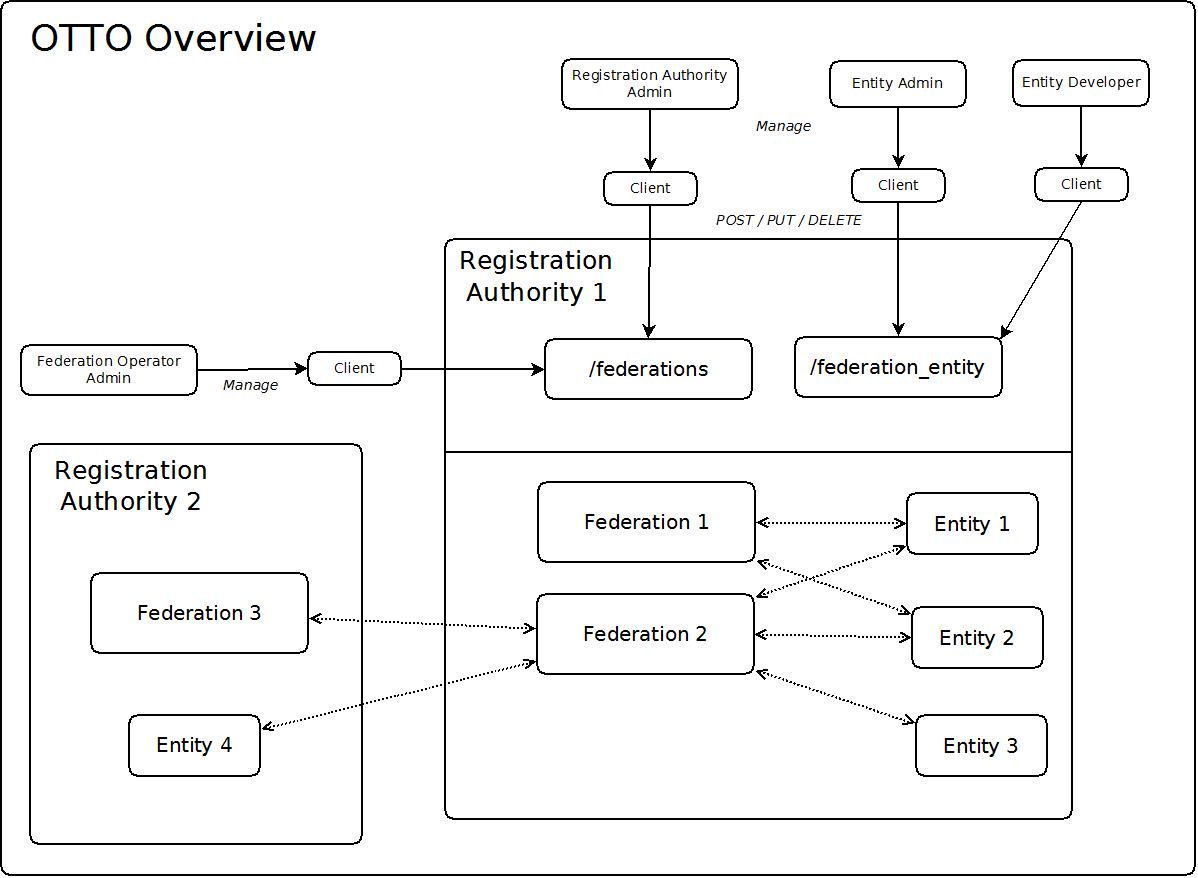
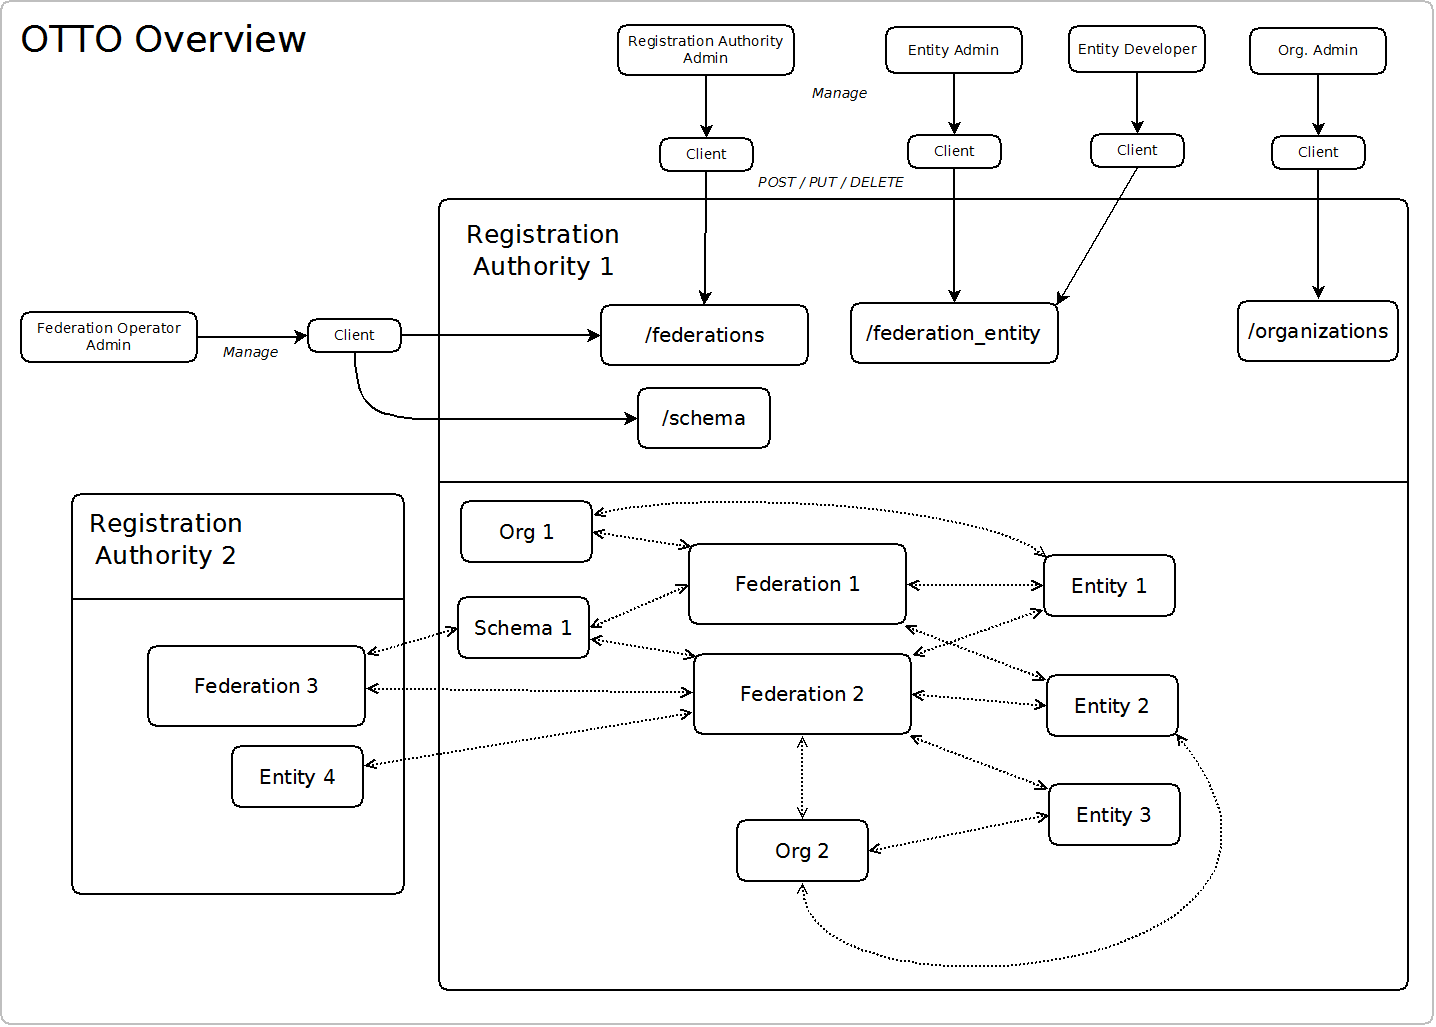
Updated proposal and diagram

diff --git a/docs/proposal/proposal.md b/docs/proposal/proposal.md
@@ -1,36 +1,54 @@
-## Before reading proposal
-* ID - just for convenience of this proposal we are using UUID however it can be any other identifier, e.g. URI, inum, long integer or whatever.
-* Federation Server - for convenience this proposal refers to "http://fs.com", which stands for federation server and must be replaced with concrete server address.
+# Open Trust Taxonomy for Federation Operators
 
-## Discussion roadmap
+## Abstract
 
-* FIXME
+The Open Trust Taxonomy for Federation Operators (OTTO) is a set of API's and a linked data
+schema to enable the formation of multi-party federations--where a central authority
+creates the rules for membership, enabling the participants to more efficiently
+collaborate. The goal of OTTO is to support a range of trust models from very low to
+very high. By providing a framework for extension, in addition to a core set of
+functionality and schema, the OTTO standard provides a scalable technical
+infrastructure to solve organizational challenges in a number of different
+ecosystems.
 
-## Big picture
+![Big picture](https://raw.githubusercontent.com/KantaraInitiative/wg-otto/master/docs/proposal/otto_overview.png "Big picture")
 
-![Big picture](https://raw.githubusercontent.com/KantaraInitiative/wg-otto/0628d4a8400e2d98ea971a26f4c28075f63056d1/docs/proposal/img/ottobigpicture.png "Big picture")
+## Definitions
 
-## Concept
-
+* Registration Authority - Service responsible for hosting federations.
+* Organization - organization description. It may be referenced in any object: Federation, Entity or any 
+other organization related object.
 * Federation - group of entities.
 * Member - reference to entity or another federation.
-* Entity - concrete representation of entity. Entity may have many types at the same time. It means that given implementation may act as OpenID Connect OP and UMA AS at the same time.
+* Entity - concrete representation of entity. Entity may have many types at the same time. For example, an
+entity may act as OpenID Connect OP and UMA AS at the same time.
     * Entity type :
-        * OAuth2 RP - https://fs.com/schema/otto/entity/type/oauth2_rp
-        * OAuth2 OP - https://fs.com/schema/otto/entity/type/oauth2_op
-        * OpenID Connect RP - https://fs.com/schema/otto/entity/type/connect_rp
-        * OpenID Connect OP - https://fs.com/schema/otto/entity/type/connect_rp
-        * UMA AS - https://fs.com/schema/otto/entity/type/uma_as
-        * UMA RS - https://fs.com/schema/otto/entity/type/uma_rs
-        * UMA RP - https://fs.com/schema/otto/entity/type/uma_rp
-* Organization - organization description. It may be present in any entry/object: Federation, Entity or any other organization related entry/object.
+        * OAuth2 RP - https://ra.org/schema/otto/entity/type/oauth2_rp
+        * OAuth2 OP - https://ra.org/schema/otto/entity/type/oauth2_op
+        * OpenID Connect RP - https://ra.org/schema/otto/entity/type/connect_rp
+        * OpenID Connect OP - https://ra.org/schema/otto/entity/type/connect_rp
+        * UMA AS - https://ra.org/schema/otto/entity/type/uma_as
+        * UMA RS - https://ra.org/schema/otto/entity/type/uma_rs
+        * UMA RP - https://ra.org/schema/otto/entity/type/uma_rp
+* Schema - 
+    * Schema type :
+        * User claim schema
+        * Authentication context reference schema
+        * Authentication method reference schema
+        * UMA Scope schema
+        * OpenID Connect Scope schema
+        * Software statement schema
+        * Trust mark schema
 
+## Discovery Endpoint
 
-##  /federations
+`.well-known/otto-configuration` returns endpoints and configuration of registration authority
 
-#### Fetching (GET)
+##  federations endpoint
 
-Endpoint to return federation metadata or otherwise federation IDs that are hosted by given server.
+### Search Federations (GET)
+
+Endpoint to return federation metadata or federation IDs that are hosted by given server.
 
 Request:
 * federation_id - OPTIONAL - id of federation.
@@ -42,28 +60,29 @@ Request:
     * uma_rs
     * uma_rp
     * uma_as
+* filter - OPTIONAL - expression to narrow the result set based on specific criteria
 
 Requests:
-  - /federations - returns federation IDs registered by given server
+  - /federations - returns federation IDs available from this Registration Authority
   - /federations/<federation id> - returns metadata of federation
   - /federations/<federation id>&entity_type=<type> - returns metadata of federation filtered by type.
-
+  - /federations/<federation id>&filter=<filter> - returns filtered metadata
 
 **Federation list Request:**
 
 ```
-GET https://fs.com/federations HTTP/1.1
+GET https://ra.org/federations HTTP/1.1
 ```
 
 
 **Federation list Response:**
 ```json
 {
-  "@context": "https://fs.com/schema/otto/federation_list",
+  "@context": "https://ra.org/schema/otto/federation_list",
   "federations": [
-    "https://fs.com/federations/904ca9da-c5a6-11e5-9912-ba0be0483c18",
-    "https://fs.com/federations/904cae1c-c5a6-11e5-9912-ba0be0483c18",
-    "https://fs.com/federations/904cb092-c5a6-11e5-9912-ba0be0483c18"
+    "https://ra.org/federations/904ca9da-c5a6-11e5-9912-ba0be0483c18",
+    "https://ra.org/federations/904cae1c-c5a6-11e5-9912-ba0be0483c18",
+    "https://ra.org/federations/904cb092-c5a6-11e5-9912-ba0be0483c18"
   ]
 }
 ```
@@ -72,26 +91,26 @@ GET https://fs.com/federations HTTP/1.1
 **Federation Request:**
 
 ```
-GET https://fs.com/federations/904cb092-c5a6-11e5-9912-ba0be0483c18 HTTP/1.1
+GET https://ra.org/federations/904cb092-c5a6-11e5-9912-ba0be0483c18 HTTP/1.1
 ```
 
 
 **Federation Response:**
 ```json
 {
-  "@context": "https://fs.com/schema/otto/federation.jsonld",                      <- context of federation
+  "@context": "https://ra.org/schema/otto/federation.jsonld",                      <- context of federation
   "name": "OAuth 2 Federation",                                                    <- name of federation
-  "entity":"https://fs.com/federation_entity/194d8ab2-c5a7-11e5-9912-ba0be0483c18",<- reference to entity
-  "entity":"https://fs.com/federations/904cb092-c5a6-11e5-9912-ba0be0483c18",      <- reference to federation
-  "entity":"https://fs.com/federation_entity/394d8fbc-c5a7-11e5-9912-ba0be0483c18",
-  "entity":"https://fed1.com/federation_entity/494d8fbc-c5a7-11e5-9912-ba0be0483c18",
-  "entity":"https://fed2.com/federation_entity/594d8fbc-c5a7-11e5-9912-ba0be0483c18",
+  "entity":"https://ra.org/federation_entity/194d8ab2-c5a7-11e5-9912-ba0be0483c18",<- reference to entity
+  "entity":"https://ra.org/federations/904cb092-c5a6-11e5-9912-ba0be0483c18",      <- reference to federation
+  "entity":"https://ra.org/federation_entity/394d8fbc-c5a7-11e5-9912-ba0be0483c18",
+  "entity":"https://ra-uk.com/federation_entity/494d8fbc-c5a7-11e5-9912-ba0be0483c18",
+  "entity":"https://ra-fr.com/federation_entity/594d8fbc-c5a7-11e5-9912-ba0be0483c18",
   "organization": "https://gluu.org/otto/organization"
 }
 ```
 
 
-#### Create (POST)
+### Create (POST)
 
 **Request:**
 ```json
@@ -108,11 +127,11 @@ HTTP/1.1 201 Created
 Content-Type: application/json
 
 {
-   "id":"https://fs.com/federations/904cb092-c5a6-11e5-9912-ba0be0483c18"
+   "id":"https://ra.org/federations/904cb092-c5a6-11e5-9912-ba0be0483c18"
 }
 ```
 
-#### Update (PUT)
+### Update (PUT)
 
 **Request:**
 ```json
@@ -128,7 +147,7 @@ PUT /federations/904cb092-c5a6-11e5-9912-ba0be0483c18 HTTP/1.1
 HTTP/1.1 200 OK
 ```
 
-#### Delete (DELETE)
+### Delete (DELETE)
 
 **Request:**
 ```
@@ -140,7 +159,7 @@ DELETE /federations/904cb092-c5a6-11e5-9912-ba0be0483c18 HTTP/1.1
 HTTP/1.1 200 OK
 ```
 
-#### Join federation (POST)
+### Join federation (POST)
 
 It may create entity and join the federation or otherwise join already existed entity.
 
@@ -158,7 +177,7 @@ POST /federations/<federation_id> HTTP/1.1
 HTTP/1.1 200 OK
 ```
 
-#### Leave federation (DELETE)
+### Leave federation (DELETE)
 
 Leave federation.
 
@@ -172,19 +191,19 @@ DELETE /federations/<federation_id>/<entity id> HTTP/1.1
 HTTP/1.1 200 OK
 ```
 
-### /federation_entity
+## federation_entity endpoint
 
-#### Fetch (GET)
+### Fetch (GET)
 
 **Entity Request:**
 ```
-GET https://fs.com/federation_entity/194d8ab2-c5a7-11e5-9912-ba0be0483c18 HTTP/1.1
+GET https://ra.org/federation_entity/194d8ab2-c5a7-11e5-9912-ba0be0483c18 HTTP/1.1
 ```
 
 **OpenID Connect OP Entity Response:**
 ```json
 {
-  "@context": "https://fs.com/schema/otto/entity/connect_op.jsonld",
+  "@context": "https://ra.org/schema/otto/entity/connect_op.jsonld",
   "name": "Gluu Server Ce-dev",
   "id":"https://ce-dev.gluu.org"           <- in OP context it is URI
   "organization":"https://gluu.org/otto/organization"
@@ -194,7 +213,7 @@ GET https://fs.com/federation_entity/194d8ab2-c5a7-11e5-9912-ba0be0483c18 HTTP/1
 **OpenID Connect RP Entity Response:**
 ```json
 {
-  "@context": "https://fs.com/schema/otto/entity/connect_rp.jsonld",
+  "@context": "https://ra.org/schema/otto/entity/connect_rp.jsonld",
   "name": "Gluu Server Ce-dev Client",
   "id":"https://ce-dev.gluu.org/rp",          <- in RP context it is redirect_uri
   "organization":"https://gluu.org/otto/organization"
@@ -204,14 +223,14 @@ GET https://fs.com/federation_entity/194d8ab2-c5a7-11e5-9912-ba0be0483c18 HTTP/1
 **UMA Resource Server Entity Response:**
 ```json
 {
-  "@context": "https://fs.com/schema/otto/entity/uma_rs.jsonld",
+  "@context": "https://ra.org/schema/otto/entity/uma_rs.jsonld",
   "name": "Gluu Resource Server",
   "id":"https://ce-dev.gluu.org/rs",          <- in RS context it is URI
   "organization":"https://gluu.org/otto/organization"
 }
 ```
 
-#### Create (POST)
+### Create (POST)
 
 **Request:**
 ```json
@@ -228,11 +247,11 @@ HTTP/1.1 201 Created
 Content-Type: application/json
 
 {
-   "id":"https://fs.com/federation_entity/904cb092-c5a6-11e5-9912-ba0be0483c19"
+   "id":"https://ra.org/federation_entity/904cb092-c5a6-11e5-9912-ba0be0483c19"
 }
 ```
 
-#### Update (PUT)
+### Update (PUT)
 
 **Request:**
 ```json
@@ -248,7 +267,7 @@ PUT /federation_entity/<entity id> HTTP/1.1
 HTTP/1.1 200 OK
 ```
 
-#### Delete (DELETE)
+### Delete (DELETE)
 
 **Request:**
 ```
@@ -260,15 +279,12 @@ DELETE /federation_entity/<entity id> HTTP/1.1
 HTTP/1.1 200 OK
 ```
 
-### Organization information sharing
+## schema endpoint
 
-Organization information can be provided by:
-  * Organization public server (for example https://gluu.org/otto/organization)
-  * Or otherwise it can be managed/hosted by Federation server (e.g. https://fc.com/otto/organization)
 
-Main point is that hosted server must follow otto organization schema context. So organization information is structured according to schema and is well known.
+## organization endpoint
 
-## Schema
+## Linked Data Schema
 
 ### Properties
 
@@ -365,7 +381,7 @@ hash.jsonld
 
     # Instance data  TODO -> need to set instance data correctly
 
-    <https://fs.com/federations/904cb092/c5a6-11e5-9912-ba0be0483c18>
+    <https://ra.org/federations/904cb092/c5a6-11e5-9912-ba0be0483c18>
      a schema:Thing, otto:OpenID_Provider;
      otto:discoveryURL "https://idp.example.com/.well-known/openid-configuration" ;
      otto:discoveryJSONHash "2fd4e1c67a2d28fced849ee1bb76e7391b93eb12";
@@ -411,7 +427,7 @@ openid_provider.jsonld
              "@type": "otto:Hash"
           },
           {
-            "@id": "https://fs.com/federations/904cb092/c5a6-11e5-9912-ba0be0483c18",
+            "@id": "https://ra.org/federations/904cb092/c5a6-11e5-9912-ba0be0483c18",
             "@type": [
               "otto:OpenID_Provider",
               "schema:Thing"
@@ -551,6 +567,6 @@ openid_provider.jsonld
      
 ###  Questions
 
-* How are we going to support versioning of federation metadata?
-* How are we going to support versioning of entities ? E.g. UMA RP 1.0 vs UMA RP 1.0.1 implementation.
-* Do we want to support custom members?
+* How are we going version federation metadata?
+* How are we going version entities ? E.g. UMA RP 1.0 vs UMA RP 1.0.1 implementation.
+* Do we want to support custom entities?

diff --git a/minutes/045-otto_minutes-5-25-2016.md b/minutes/045-otto_minutes-5-25-2016.md
@@ -1,0 +1,50 @@
+OTTO WG Minutes 5/25/16
+STATUS: Draft
+
+## Voting Members Attending:
+ - Mike Schwartz
+
+## Special Guest
+
+## Approve Minutes
+
+Mike makes a motion to approve minutes from 3/9/16 - 5/4/16, which are all 
+available on the OTTO Github.
+
+## Vote on Name Change
+
+"Open Trust Taxonomy for Federation Operators"
+
+## Re-charter
+
+We need to update the charter becuase we've missed the timeline, and we have a 
+sharper focus now on our goals. 
+
+## Discussion of EIC
+
+Mike's Prezi is [here](https://prezi.com/vbh50clio1h7/eic-kantara-otto/)
+
+## Discussion of update proposal
+
+
+## Next Meeting - Weds 6/1/2016 9am PT / 5pm GMT
+
+  **NO MEETING 5/11 DUE TO European Identity Conference (EIC)!!!**
+
+Screen Sharing: [https://global.gotomeeting.com/join/162399285](https://global.gotomeeting.com/join/162399285)
+
+ - Audio: Skype: +99051000000481
+ - North America Toll: +1 (805) 309-2350
+ - Alternate Toll: +1 (714) 551-9842
+ - International Toll: http://www.turbobridge.com/international.html
+
+ - Conference ID: 613-2898
+
+    Command Menu: 0 Plays menu of Keypad Commands *3 Promote to Host (if non-host) *5 Raise your hand 
+    *6 Mute yourself (toggle on/off) *# Private roll call of participants *\ Mute music-on-hold (toggle on/off)
+
+    TurboPhone (beta): https://www.turbobridge.com/join.html Works with Internet Explorer on Windows only
+
+    SIP Access (using IP phone or soft phone) sip:bridge@turbobridge.com
+    SIP URL details: https://www.turbobridge.com/help/Index.html?context=180
+
